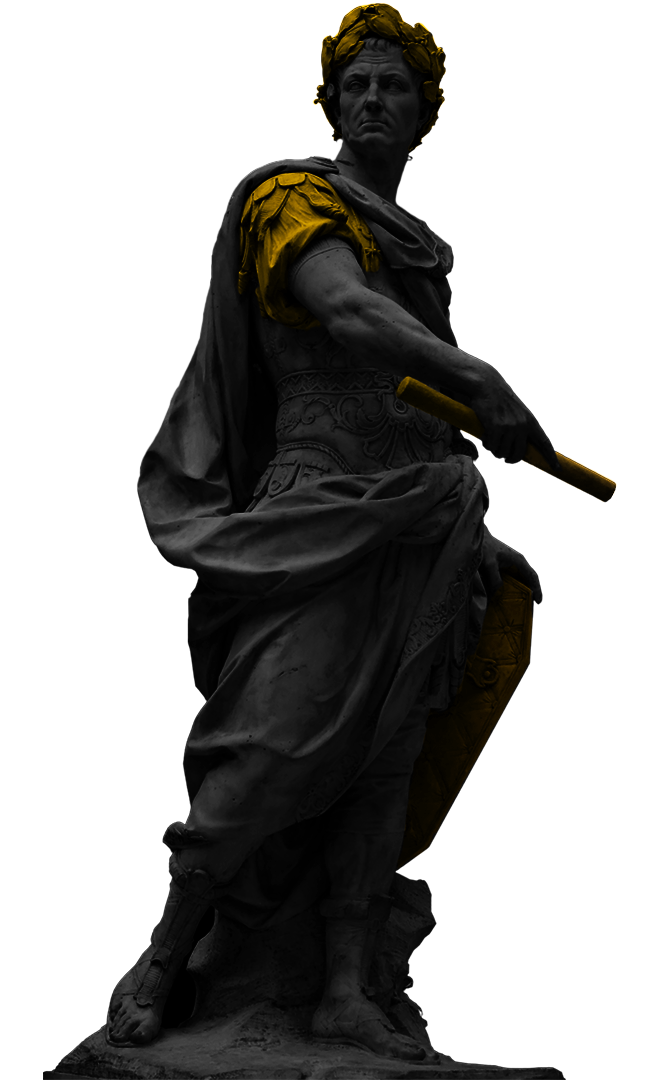
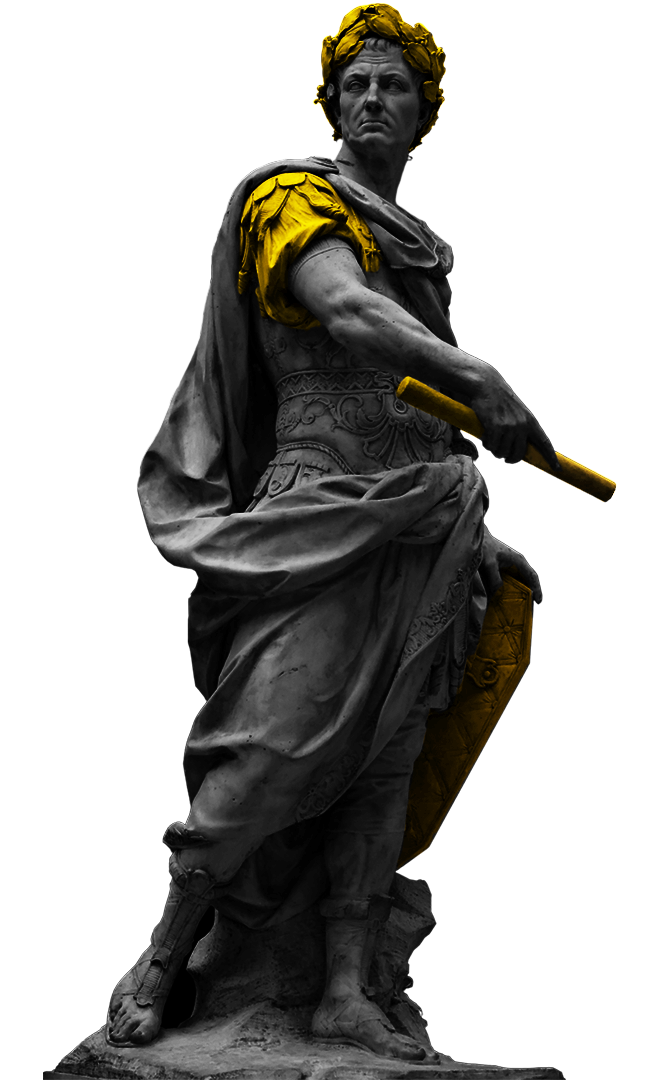
latest image changes

diff --git a/src/pages/Swap/index.tsx b/src/pages/Swap/index.tsx
@@ -37,8 +37,8 @@ import { CursorPointer, TYPE } from '../../theme'
 import { computeSlippageAdjustedAmounts, computeTradePriceBreakdown, warningSeverity } from '../../utils/prices'
 import AppBody from '../AppBody'
 import { PriceSlippageWarningCard } from '../../components/swap/PriceSlippageWarningCard'
-import Caeser from '../../assets/images/caeser photo_black.png'
-import WhiteCaeser from '../../assets/images/1200px-Julius_Caesar_Coustou_Louvre.png'
+import Caeser from '../../assets/images/1200for_dark_mode.png'
+import WhiteCaeser from '../../assets/images/1200pxfor_light_mode.png'
 import { useDarkModeManager } from '../../state/user/hooks'
 
 export default function Swap({ location: { search } }: RouteComponentProps) {
@@ -196,7 +196,7 @@ export default function Swap({ location: { search } }: RouteComponentProps) {
         {darkMode ?
           <img src={Caeser} style={{ width: '500px', height: 'auto' }} />
           :
-          <img src={WhiteCaeser} style={{ width: '500px', height: 'auto' }} />  
+          <img src={WhiteCaeser} style={{ width: '500px', height: 'auto' }} />
         }
       </div>
       <AppBody>
